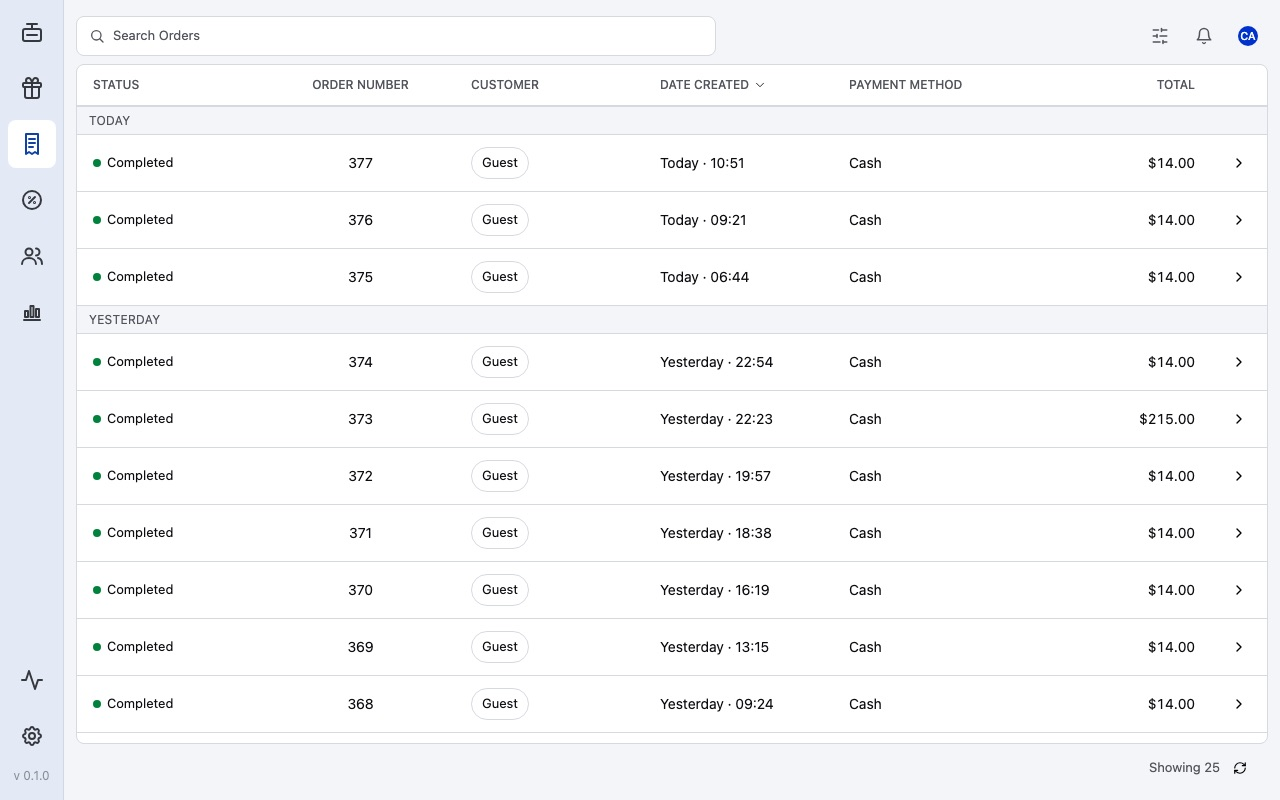
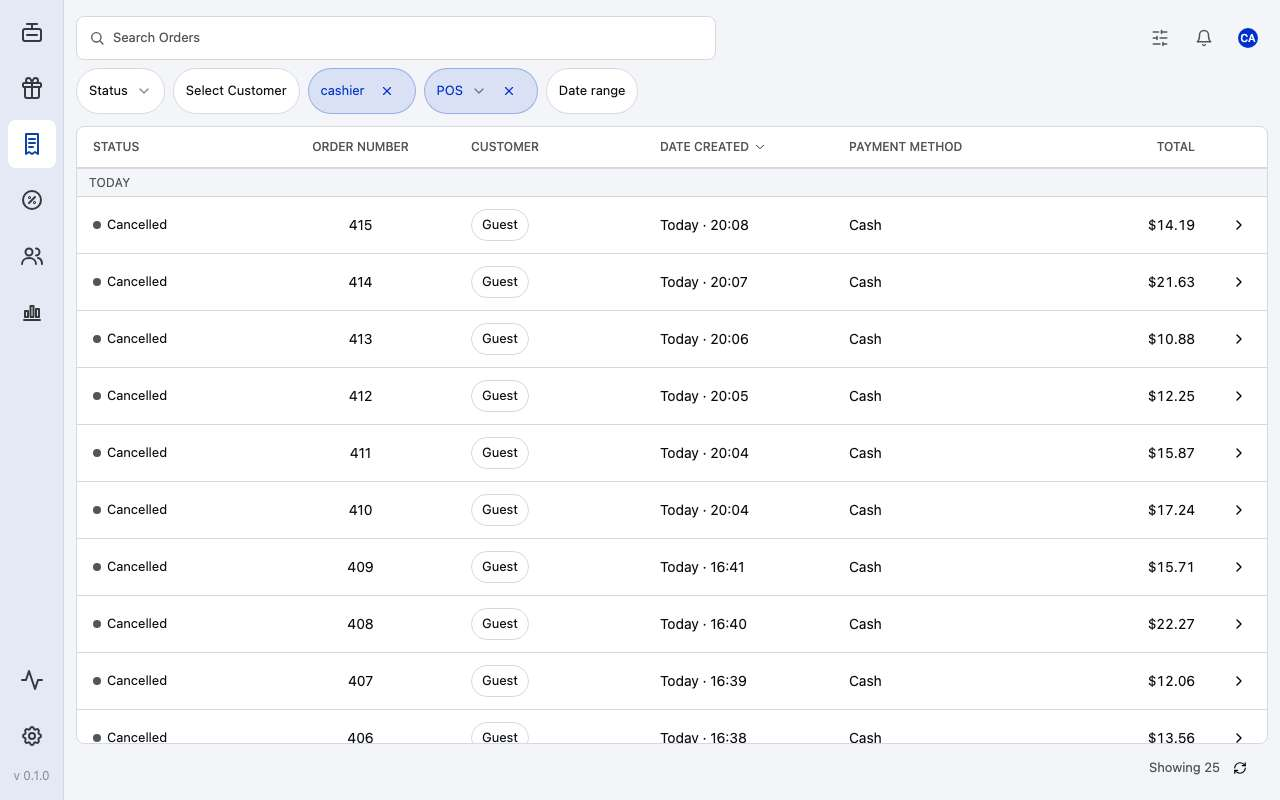
docs(parity): round 15, B10 C2 D6 D7 D10 rescored on main
The five rows built since round 14 (#274 to #285) move from missing to
close. The score holds at 8/45 (match 8, close 33, missing 2, deferred 2).

Claude-Session: https://claude.ai/code/session_01Pm6LMGEtXLhrG6MonEj1Ca

diff --git a/docs/v2-parity/DEMO-PARITY.md b/docs/v2-parity/DEMO-PARITY.md
@@ -1,17 +1,21 @@
 # Demo parity: Tally Woo against demo.wcpos.com/pos
 
 - Date: 2026-11-12
-- Tally Woo: `main` at `b8f48454547b640791c223338dec8ad8f776718a` (after #272, `@tallyui/*` 3.19.0), served as a production bundle
+- Tally Woo: `main` at `3b20c98` (after #285) for the five round 15 rows, and at `b8f48454547b640791c223338dec8ad8f776718a` (after #272, `@tallyui/*` 3.19.0) for the rest, served as a production bundle
 - Demo: WCPOS `v 2.0.0` (the version shown under the demo's rail), US Store · Front Counter
 - Viewport: 1280x800; the two phone rows are 390x844
-- Round: 14 (partial). The rows that #265 to #272 and the `@tallyui/*`
+- Round: 15 (partial). B10, C2, D6, D7 and D10, built since round 14
+  (#274 to #285), were captured on the dev store and scored against the
+  demo; every other row keeps round 14's image and score.
+- Round 14 (partial): The rows that #265 to #272 and the `@tallyui/*`
   3.19.0 bump touched (A4, A7, A10, B1, B7, B9, B12, D2, D9, D13) were
   recaptured and re-scored with round 13's strictness; every other row
   keeps round 13's image and score. Where v2's source and the demo's pixels
   differ by a pixel or two, the source is cited and the difference is not
   counted. No row reached match: each one still has a gap that waits on
   TallyUI or the connector
-- Score: `PARITY tally-woo 8/45 (match 8, close 28, differs 0, missing 7, deferred 2)`
+- Score: `PARITY tally-woo 8/45 (match 8, close 33, differs 0, missing 2, deferred 2)`
+- Round 14: 8/45 (match 8, close 28, differs 0, missing 7, deferred 2)
 - Round 13: 8/45 (match 8, close 30, differs 0, missing 7)
 - Round 12: 5/45 (match 5, close 33, differs 0, missing 7)
 - Round 11: 4/45 (match 4, close 34, differs 0, missing 7)
@@ -25,6 +29,17 @@
 - Round 3: 6/45 (match 6, close 31, differs 0, missing 8)
 - Round 2: 6/45 (match 6, close 28, differs 3, missing 8)
 - Round 1: 0/45 (match 0, close 11, differs 23, missing 11)
+
+Round 15 scores the five rows built since round 14. Order details (B10,
+#274 and #275) opens from the ⋮ as a left sheet with a Customer Note,
+Void and Close. The orders list has its filter chips (C2, #277). Settings
+has Printing (D6, #281 and #282) and Card readers (D7, #280), and Store
+health has Performance with its Sync controls (D10, #283 to #285). All
+five move from missing to close, so the score holds at 8/45 with two rows
+still missing: A11 waits on a TallyUI release that maps billing and
+shipping (TallyUI #521), and D8 on ADR-085 U7 and U8. On the dev store the
+Printing page's Closure templates section answers HTTP 400; that is listed
+under "Next for this repo".
 
 Round 14 follows #265 to #267 and #272, which cover round 13's four "Next
 for this repo" items, and the `@tallyui/*` 3.19.0 bump (#271). The cashier
@@ -350,7 +365,7 @@ Both sides are captured as they first appear.
 | B7 | Line price and discount | Popover on the line: regular price struck through, price, quick discount keys −5%, −10%, −15% in primary text on one band, borderless keypad, check button | Popover on the line ("Price for Cold Brew"): $5.00 struck through over the $4.00 price, quick discount keys −5%, −10%, −15%, a keypad of bordered keys with ⌫, a Discount button, Apply, Cancel | close | The keys are bordered boxes where the demo's keypad is flat, and Apply / Cancel stand where the demo has one check. The struck regular price is now in the popover, and the separate inline "Discount on …" form has given way to the popover's Discount button (3.19.0; the button was not opened this round) | shared:@tallyui/components (TallyUI #677) | [demo](demo/line-edit-demo.jpg) · [tally](demo/line-edit-tally.jpg) |
 | B8 | Coupons | No coupon field in the cart; Add Discount sits in the + menu; Coupons is its own area in the rail | No coupon field in the cart. + › Add discount has Quick discount / Coupon sides, and the Coupon side lists codes with descriptions and amounts. Coupons is also its own area in the rail | close | Coupons are picked from a centred Add discount dialog with two sides. The demo's Add Discount form was not opened, so the forms themselves are not compared | shared:@tallyui/components (TallyUI #678), shared:@tallyui/pos (TallyUI #679) | [demo](demo/add-item-demo.jpg) · [tally](demo/coupon-tally.jpg) |
 | B9 | Cart settings | Left side sheet beside the rail over a light backdrop: Panel position, Open orders position, Sort items (select), Quick Discounts (−5% / −10% / −15% at 13 px semibold), auto show and auto print receipt toggles, Columns with drag handles, Restore Default Settings, Close | Left side sheet beside the rail over a light backdrop, under v2's header: Panel position, Open orders position, Sort items (select) with "Fees and shipping always stay last", Quick Discounts (−5% / −10% / −15% at 13 px semibold) with a hint, auto show and auto print receipt switches, Register sessions as a switch row with a two-line help, Restore Default Settings in a red border, Close; 44 px footer | close | No Columns section ("Cart") (TallyUI #695). The switches now match: 36x20 with a light grey off track (3.19.0) | shared:@tallyui/components (TallyUI #695) | [demo](demo/cart-settings-demo.jpg) · [tally](demo/cart-settings-tally.jpg) |
-| B10 | Order details (⋮) | Left sheet with Form / JSON tabs: Customer Note, Hand over (Status, Cashier, Store, Register, Send), Tax exempt, Hidden fields, + Currency, + Custom field; Void, Close, Print, Sync order | The ⋮ opens a one-item menu: Void | missing | No customer note, tax exempt or hand over ("Order note and meta") | connector (TallyUI #689, awaiting release) | [demo](demo/order-details-demo.jpg) · [tally](demo/order-details-tally.jpg) |
+| B10 | Order details (⋮) | Left sheet with Form / JSON tabs: Customer Note, Hand over (Status, Cashier, Store, Register, Send), Tax exempt, Hidden fields, + Currency, + Custom field; Void, Close, Print, Sync order | The ⋮ opens a one-item menu, Order details: a left sheet with Customer Note; Void and Close | close | No Form / JSON tabs, Hand over, Tax exempt, Hidden fields, + Currency or + Custom field; no Print or Sync order in the footer. #274, #275 | connector (TallyUI #689) | [demo](demo/order-details-demo.jpg) · [tally](demo/order-details-tally.jpg) |
 | B11 | Variations | "Aether Gym Pant" drills in place: the parent tile (photo, name, price, "12 options", back chevron), then one tile per variation with its name, attribute chips ("32", "Blue") and price; the filter chips grey out; "12 options" at the foot | "T-Shirt" (6 options) drills in place: "Categories › All products › T-Shirt", the parent tile (image, name, price, "6 options", back chevron), then one tile per variation with its name, attribute chips ("S", "Black") and price, the first row at y168 from x76; the Category chip leaves the row and On Sale and Tag dim, with v2's tooltip on hover; "6 options" with a sync icon at the foot | match | The crumb row and the tiles now match (A5). A dev build still rejects the variable products when they sync (TallyUI #713, merged as #724, awaiting release); the production bundle, which is what a till runs, syncs them | | [demo](demo/variations-demo.jpg) · [tally](demo/variations-tally.jpg) |
 | B12 | Phone cart (390x844) | Top bar; full-screen cart table, "Checkout $16.83"; one-line open-order tabs ("Guest $16.83") with a "3 ^" count, the open tab in view at the right; bottom tab bar | Top bar (menu, store, bell, avatar); full-screen cart table with compact lines, Subtotal and a bold Total, ⋮ and "Checkout"; with three open orders, one-line tabs behind a "3 ^" count cell, the open tab whole at the right with + after it; bottom tab bar Products / Cart with a badge | close | The bold Total row (B3; TallyUI #781 lets an app leave it out). Subtotal starts at x32, and the foot puts the ⋮ at x20 and a 290 px Checkout at x80 where the demo's Checkout starts at x7 and its ⋮ is at x54: `CartTotal` and `CartFoot`'s inset (B1). The per-line control rows are gone (3.19.0) | shared:@tallyui/components (TallyUI #781; `CartTotal` inset, not filed) | [demo](demo/phone-cart-demo.jpg) · [tally](demo/phone-cart-tally.jpg) |
 
@@ -359,7 +374,7 @@ Both sides are captured as they first appear.
 | # | Screen or flow step | Demo | Tally Woo | Status | What differs | Waits on | Pair |
 |---|---|---|---|---|---|---|---|
 | C1 | Orders list | Table: Status dot, Order number (centred, 32 px customer chip), Customer, Billing address, Date created with a sort chevron, POS icon, Cashier, Payment method, Total; "TODAY" group heading; 57 px rows; narrow 44 px search with a settings, bell and avatar cluster; "Showing 20 of 29,754" with a sync icon | Table on a bordered card 12 px from the rail: Status dot, Order number (centred, 32 px customer chip), Customer, Date created with a sort chevron, Payment method, Total, chevron; TODAY / YESTERDAY group headings; 57 px rows centred on the chip; 40 px search with a sliders icon, bell and avatar; the sliders open "Order Settings", a right sheet with a Columns heading, six column switches, Restore Default Settings (red border) and Close on a 44 px footer; "Showing 25" with a sync icon | close | No Billing address, POS icon or Cashier column, and no "of N" total ("Order history") (connector). The search is 40 px against 44 (TallyUI). The Order Settings sheet's backdrop is near black and its switches larger (TallyUI). Nothing buildable is left here | connector (columns; X-WP-Total, TallyUI #680), shared:@tallyui/components (Switch `size="sm"`, DialogOverlay, SearchInput height) | [demo](demo/orders-demo.jpg) · [tally](demo/orders-tally.jpg) · [tally settings](demo/orders-settings-tally.jpg) |
-| C2 | Order filters | Rounded chips: Status, Payment Method, Select Customer, cashier, store, Select register, Date range | None | missing | The list can be narrowed only by search ("Order history": filters) | connector (TallyUI #721) | [demo](demo/orders-demo.jpg) · [tally](demo/orders-tally.jpg) |
+| C2 | Order filters | Rounded chips: Status, Payment Method, Select Customer, cashier, store, Select register, Date range | Rounded chips: Status, Select Customer, cashier, store (POS), Date range; the cashier and store chips start active | close | No Payment Method or Select register chip; the chips have no icons. The table has no Billing Address or Cashier column and no POS mark. #277 | connector (TallyUI #721) | [demo](demo/orders-demo.jpg) · [tally](demo/orders-tally.jpg) |
 | C3 | Order search | "Search Orders" box over the table | "Search Orders" box over the table; "377" leaves one row, "Showing 1" | match | The box's 40 px height is counted in C1 | | [demo](demo/orders-search-demo.jpg) · [tally](demo/orders-search-tally.jpg) |
 | C4 | Order detail | Right sheet with View / Edit / JSON tabs: items with a barcode chip, tax breakdown, Payment section; Delete, Close, Re-open | Right sheet "Order #377": status, date, items with a SKU chip, Totals, Payment, Customer; Close, Receipt | close | No View / Edit / JSON tabs, and no Re-open or Delete ("Order history": detail, reopen, edit, delete). The backdrop is near black (TallyUI). The tax breakdown was not seen (no tax) | connector, shared:@tallyui/components (DialogOverlay, not filed) | [demo](demo/order-detail-demo.jpg) · [tally](demo/order-detail-tally.jpg) |
 | C5 | Customers | Table: primary initials avatar, First name, Last name, Email, Billing address, Date created; narrow search with add-customer, settings, bell and avatar; "Showing 10 of 5,146" | Table on a bordered card 12 px from the rail: initials avatar, First name, Last name (sorted), Email, Billing address, chevron; narrow search with add-customer, sliders, bell and avatar; the sliders open "Customer Settings" with column switches; "Showing 5" with a sync icon under the card | close | The avatars are pale grey where the demo's are solid primary (TallyUI #718). No Date created column: the connector's `Customer` has no created or modified dates. No "of N" total ("Customers": Customers screen). The search is 40 px (TallyUI). Nothing buildable is left here | connector (Customer dates, not filed; X-WP-Total, TallyUI #680), shared:@tallyui/components (TallyUI #718, SearchInput height) | [demo](demo/customers-demo.jpg) · [tally](demo/customers-tally.jpg) |
@@ -376,11 +391,11 @@ Both sides are captured as they first appear.
 | D3 | Settings: Tax | A two-column form with muted labels: Calculation (Calculate tax based on as a select, Enable Taxes, Prices Entered with Tax, Shipping Tax Class, Round Tax at Subtotal Level, each "Set in WooCommerce · Open ↗"); Display (Display Tax Totals, Display Prices in the Shop, Display Prices During Cart and Checkout as two-way segments, Price Display Suffix); Tax Rates with "View all tax rates", which opens "Tax Rates" (× in the header, underline class tabs with the count inline over a rule under the tabs, a seven-column rates table, "7 tax rates" with a sync icon, Close) | A flat two-column form with muted labels: Calculation (Calculate tax based on, Enable Taxes, Prices Entered with Tax, Shipping Tax Class, Round Tax at Subtotal Level, each "Set in WooCommerce · Open ↗"); Tax Rates ("No tax rates apply at the store's address.") with "View all tax rates", which opens an 800 px right sheet "Tax Rates" with a 44 px ×: underline tabs "Standard 0 / Reduced rate 0 / Zero rate 0" from x505 over a rule under the tabs only, the open one underlined in primary, "No rates in this class", "0 tax rates" with a disabled sync icon, and Close | close | No Display section (the tax display settings are not synced). "Standard" against "Standard rate": the connector has the class slugs only (not filed). The sync icon is drawn but disabled: `useStoreSettings` has no refresh (TallyUI, not filed). The sheet's backdrop is near black, and the switches are larger with a dark grey off track (TallyUI). Enable Taxes is off and there are no rates, from the data. The tabs' rule and inset and the sync icon now match | connector (tax display settings; tax class names, not filed), shared:@tallyui/components (DialogOverlay, Switch `size="sm"`), shared:@tallyui/pos (`useStoreSettings` refresh, not filed) | [demo](demo/settings-tax-demo.jpg) · [tally](demo/settings-tax-tally.jpg) · [demo rates](demo/tax-rates-demo.jpg) · [tally rates](demo/tax-rates-tally.jpg) |
 | D4 | Settings: Barcode Scanning | Scanning (threshold 24, minimum length 8, prefix, suffix); Sound ("Play a sound on scan"); Scanner (setup guide, "Connect a scanner directly (advanced)"); Barcode Scanning Test | Scanning (the same four fields and values); Sound ("Play a sound on scan"); Barcode Scanning Test | close | No Scanner section ("Scanning") | shared:@tallyui/pos (TallyUI #682) | [demo](demo/settings-barcode-demo.jpg) · [tally](demo/settings-barcode-tally.jpg) |
 | D5 | Settings: Theme | "Current Theme: Light"; ten theme cards each with an icon, from y179: System, Light, Dark, Ocean, Sunset, Monochrome, Paper till, Warm shop, Bold money, Market stall; a Scale section (Auto / Compact / Regular / Spacious); an Icons section (Match theme, Tabler 1.5, Hugeicons, Phosphor …) | "Following system theme" under System, "Current Theme: Ocean" under Ocean; the same ten theme cards, each with an icon, in a flat grid from y179. Choosing Ocean recolours the whole app, and System puts it back | deferred: ADR | No Scale or Icons section (TallyUI, not filed). The card spacing matches | shared:@tallyui/theme (scale and icon sets, not filed) | [demo](demo/settings-theme-demo.jpg) · [tally](demo/settings-theme-tally.jpg) · [tally Ocean](demo/theme-ocean-tally.jpg) |
-| D6 | Settings: Printing | Printers (empty, Add printer); Receipt templates (Standard, Detailed Thermal 80mm, Detailed, Gift, Packing Slip, Kitchen Ticket), each with "Auto — Print Dialog" | Not present | missing | ("Printing") | connector (TallyUI #681) | [demo](demo/settings-printing-demo.jpg) |
-| D7 | Settings: Card readers | Reader list with "Use this reader" | Not present | missing | ("Card readers and terminals") | shared:@tallyui/pos (TallyUI #679) | [demo](demo/settings-card-readers-demo.jpg) |
+| D6 | Settings: Printing | Printers (empty, Add printer); Receipt templates (Standard, Detailed Thermal 80mm, Detailed, Gift, Packing Slip, Kitchen Ticket), each with "Auto — Print Dialog" | Printers (empty state, Add printer); Receipt, Report and Closure templates sections (dev store: none active; closure templates answer HTTP 400) | close | No "Open the printer guide" or "Having trouble?" links. No printer choice per template (v2's `template_printer_overrides`). The dev store has no active templates to list, so the template rows are not compared. #281, #282 | connector (TallyUI #681) | [demo](demo/settings-printing-demo.jpg) · [tally](demo/settings-printing-tally.jpg) |
+| D7 | Settings: Card readers | Reader list with "Use this reader" | "Readers this till can take card payments with." and an empty state (the dev store has no readers) | close | The subtitle sits in the card head, not the body. The reader list is not compared: the dev store has no smart readers. #280 | shared:@tallyui/pos (TallyUI #679) | [demo](demo/settings-card-readers-demo.jpg) · [tally](demo/settings-card-readers-tally.jpg) |
 | D8 | Settings: Customer Display | Generate pairing code, Copy URL, Open in browser | Not present | missing | ("Customer display") | connector, pro (TallyUI #684). ADR-085: U7, the fork routes, is TallyUI/woocommerce-pos#1, waiting for the desk; U8, the app wiring, comes after the TallyUI batch release; the Woo connector's `displaySignalling` belongs to the tallyui worker | [demo](demo/settings-customer-display-demo.jpg) |
 | D9 | Store health: Database | Sub-nav Database / Performance / Logs; "Ready to sell", records on this device, storage used, changes waiting to send; "8 records need attention" banner with Fix record, Retry, View log; a flat table with uppercase muted headers, row rules and rows about 61 px: Collection / On device / On server / Coverage bar / Size with ⋮ per row, its subtitle in the header | Sub-nav Database / Logs; "Database" with its subtitle as small muted text under it in the header (title y29, page rule y84, as the demo's); "✓ Ready to sell", records on this device, storage used, changes waiting to send over a rule at y153; a flat table with 12 px uppercase muted "Collection / On device" heads over a rule, 61 px rows with rules, a ⋮ on the Products row | close | No Performance entry in the sub-nav (D10). No On server, Coverage or Size columns (connector). The ⋮ stands only on Products, where v2 has one on each row: Tally has no per-collection action for the others yet. The dev store had no stuck records, so the attention banner was not seen ("Store health"). The header and its subtitle (#272), the rule under the figures (y153 against 150; the stat labels' line sits about 1 px lower, not counted), the row ⋮ (#267) and the flat table now match | connector | [demo](demo/health-database-demo.jpg) · [tally](demo/health-database-tally.jpg) |
-| D10 | Store health: Performance | Hourly request strip with "Reset to Balanced" | Not present | missing | ("Store health": Performance) | shared:@tallyui/database (TallyUI #683) | [demo](demo/health-performance-demo.jpg) |
+| D10 | Store health: Performance | Sub-nav Database / Performance / Logs; "✓ Normal — last 24 h: …"; Engine uptime strip (24 hourly cells, legend); Sync: Eco / Balanced / Realtime cards, "Check for changes" and "Records per request" sliders, "Right now: next check in ~… · At these settings: ~… requests per hour", Reset to Balanced; "Your server, over time" with server load chart | Sub-nav Database / Performance / Logs; status line; Engine uptime strip and legend; Sync cards, both sliders, math line, Reset to Balanced | close | No "Your server, over time" block (server load chart, easing-off notice). Slider track thicker than v2's (TallyUI `Slider`). A changed page size applies from the next catalogue start (TallyUI `startReplication`). #283, #284, #285 | shared:@tallyui/database | [demo](demo/health-performance-demo.jpg) · [tally](demo/health-performance-tally.jpg) |
 | D11 | Logs | Under Store health: events today, errors today, stuck records, changes waiting to send; Copy debug info; 44 px Search Logs; rounded All / Actions / Errors / Sync chips, the open one a borderless blue tint; verbose diagnostics toggle; Time / Level / Event / Duration / Status rows with a chevron; "Showing 46 of 46" and a "next check" line at the foot | Under Store health: the same four figures; Copy debug info; 40 px Search Logs; rounded All / Actions / Errors / Sync chips, the open one in v2's borderless selected tint; "Verbose diagnostics: off"; Time / Level / Event / Duration / Status rows with a chevron ("Order accepted by the store", "Register session opened") | close | The search is 40 px (TallyUI). No "next check" line at the foot. Sync runs write no row; the demo logs them ("Loaded the records this screen needs"). The open chip now matches | shared:@tallyui/database (TallyUI #683), shared:@tallyui/components (SearchInput height) | [demo](demo/logs-demo.jpg) · [tally](demo/logs-tally.jpg) |
 | D12 | Products area | Table from the rail in a bordered panel: photo, product name with attribute links and "15 variations ›", stock field with Manage toggle, stock status dot, categories, prices right-aligned, regular and sale price; cells centred on the row; chips In Stock, Featured, On Sale, Category, Tags, Brands; narrow search with a settings, bell and avatar cluster; "Showing 10 of 209" | Table from the rail on a bordered card: an unlabelled image column, name, stock, stock status dot, categories, price, regular and sale price, cells centred on the row; a variable product shows its attribute links and "1 variation" / "6 variations ›" under its name, drilling to "Products › T-Shirt" with one row per variation; chips Stock Status, On Sale, Category, Tag; narrow search with a sliders icon, bell and avatar; the sliders open "Product Settings" with column switches; "Showing 13 of 13" with a sync icon under the card | close | The prices are left-aligned where v2's are right-aligned, and "Regular Price" wraps, so the head is 57 px against 44: `ProductTableColumn` has no `align`, one-line heads or cell padding (TallyUI, not filed). The product name is plain text, not v2's inline field, and stock is plain text with no Manage toggle (no product writes in the connector). No Featured or Brands chip. The centred cells and the blank image head now match | connector, shared:@tallyui/components (`ProductTableColumn` align, one-line heads, cell padding; a name for an unlabelled head; not filed) | [demo](demo/products-area-demo.jpg) · [tally](demo/products-area-tally.jpg) · [tally drilled](demo/products-drill-tally.jpg) |
 | D13 | Coupons area | Table from the rail in a bordered panel: Active dot, Code, Amount (right-aligned), Type, Description, Usage (centred), Expiry date, inline edit; cells centred on the row; chips Status, Discount Type, Expires; + to add; narrow search with an icon cluster | Table from the rail on a bordered card: Active dot, Code, Amount (right-aligned), Type, Description, Usage (centred), Expiry date, cells centred on the row; chips Status, Discount Type, Expires, the chosen one in v2's tint; narrow search with a sliders icon, bell and avatar; the sliders open the coupons' column settings; "Showing 10 of 10" with a sync icon under the card | close | No + to add a coupon and no inline edit, so the rows follow their text (32 px) where the demo's 57 px rows hold fields (the connector has no coupon writes). The search is 40 px (TallyUI). No calendar behind Expires. The 45 px head, Amount's alignment, Usage's centring and the centred cells now match | connector, shared:@tallyui/components (TallyUI #715 calendar, SearchInput height) | [demo](demo/coupons-area-demo.jpg) · [tally](demo/coupons-area-tally.jpg) |
@@ -444,6 +459,13 @@ TallyUI or the connector are left out.
    y87 against 91, the drawer card at y110 against 114) while the header
    and footer match: the gap between the header and "Your sales today" in
    `cashier-sheet.tsx`, measured against v2's `user-sheet.tsx`.
+
+2. **Printing help links** (D6). v2 links "Open the printer guide" under
+   the empty state and "Having trouble?" under Add printer, both to the
+   printer docs (`settings/printing/index.tsx`).
+3. **Closure templates answer HTTP 400 on the dev store** (D6). Find
+   whether the request or the dev store is wrong before the row can be
+   compared.
 
 A7's last 1.5 px (the active chip 138.3 px against 140) has no cause found
 in v2's `chip/index.tsx` and is not counted, so it is not listed.
